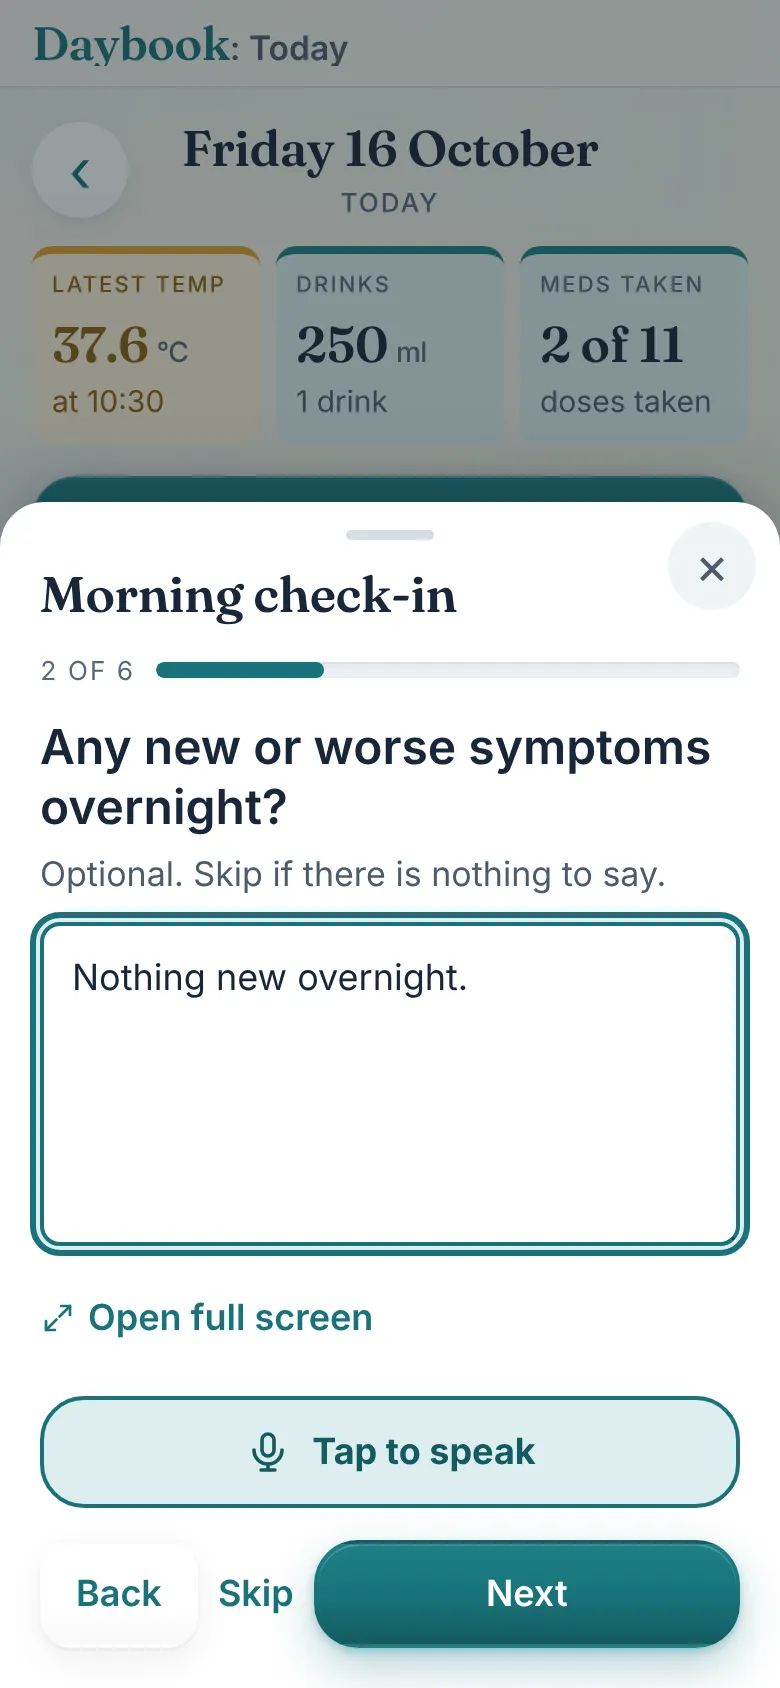
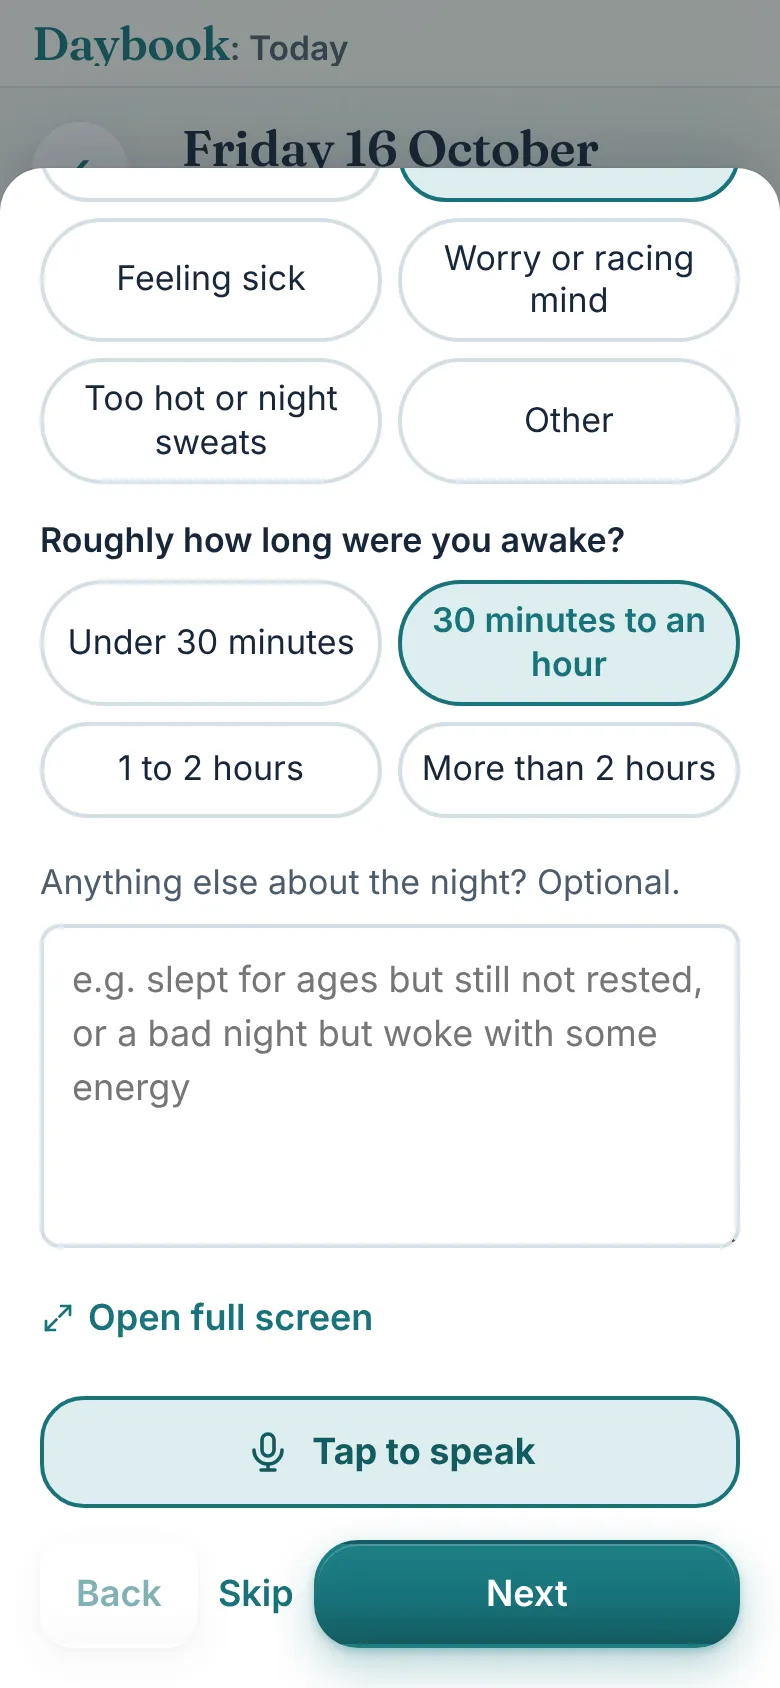
Guide frames retaken for the app's v260 (the simple sleep questions in the morning check-in)
Claude-Session: https://claude.ai/code/session_011Z7XoZPgBCYp6woCmABn2P

Changed region(s): [[0.0, 0.0924, 1.0, 0.7701], [0.0923, 0.9242, 0.2154, 0.955]]

diff --git a/js/site.js b/js/site.js
@@ -110,7 +110,7 @@
       if (!reduced && auto !== false) play(); else stop();
     };
     var load = function () {
-      return fetch('guide/guide.json?v=11').then(function (r) { if (!r.ok) throw new Error('guide ' + r.status); return r.json(); });
+      return fetch('guide/guide.json?v=12').then(function (r) { if (!r.ok) throw new Error('guide ' + r.status); return r.json(); });
     };
     load().then(function (d) {
       G.data = d;

diff --git a/privacy.html b/privacy.html
@@ -106,6 +106,6 @@
       <p>Daybook is not a medical device and gives no medical advice. In an emergency call 999; for urgent advice call 111.</p>
     </div>
   </footer>
-  <script src="js/site.js?v=14" defer></script>
+  <script src="js/site.js?v=15" defer></script>
 </body>
 </html>

diff --git a/support.html b/support.html
@@ -75,6 +75,6 @@
       <p>Daybook is not a medical device and gives no medical advice. In an emergency call 999; for urgent advice call 111.</p>
     </div>
   </footer>
-  <script src="js/site.js?v=14" defer></script>
+  <script src="js/site.js?v=15" defer></script>
 </body>
 </html>

diff --git a/terms.html b/terms.html
@@ -83,6 +83,6 @@
       <p>Daybook is not a medical device and gives no medical advice. In an emergency call 999; for urgent advice call 111.</p>
     </div>
   </footer>
-  <script src="js/site.js?v=14" defer></script>
+  <script src="js/site.js?v=15" defer></script>
 </body>
 </html>

diff --git a/beta.html b/beta.html
@@ -153,6 +153,6 @@
     </div>
   </footer>
 
-  <script src="js/site.js?v=14" defer></script>
+  <script src="js/site.js?v=15" defer></script>
 </body>
 </html>

diff --git a/index.html b/index.html
@@ -468,6 +468,6 @@
     </div>
   </footer>
 
-  <script src="js/site.js?v=14" defer></script>
+  <script src="js/site.js?v=15" defer></script>
 </body>
 </html>
